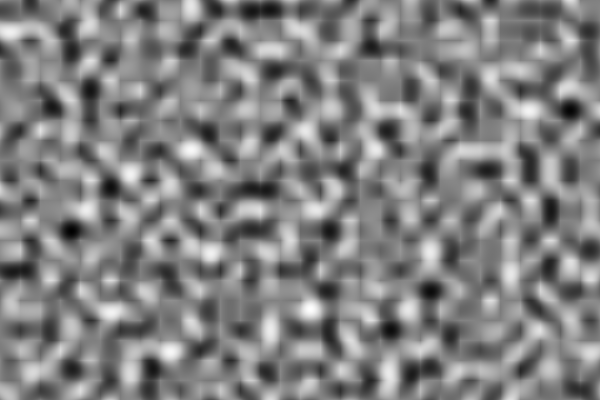
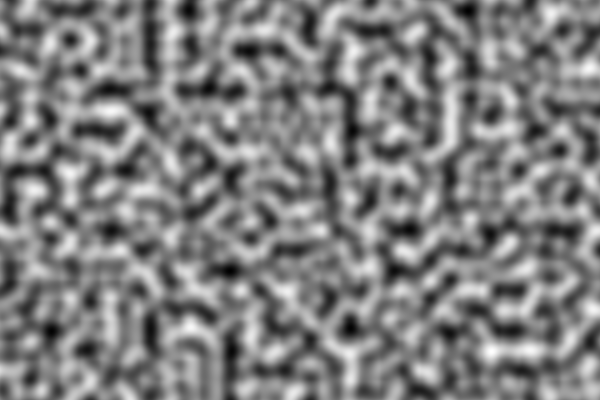
Introduced ease function for weighting.

diff --git a/perlin.py b/perlin.py
@@ -21,6 +21,9 @@ for i in range(gradients.shape[0]):
 def interpolate(x0, x1, w):
     return x0 + w * (x1 - x0)
 
+def ease_function(t):
+    return 3 * t**2 - 2 * t**3
+
 def perlin(x, y):
     x = x / cell_width
     y = y / cell_height
@@ -34,10 +37,12 @@ def perlin(x, y):
     u = np.dot((x - x0, y - y1), gradients[x0, y1])
     v = np.dot((x - x1, y - y1), gradients[x1, y1])
 
-    a = interpolate(s, t, x - x0)
-    b = interpolate(u, v, x - x0)
+    w = ease_function(x - x0)
+    a = interpolate(s, t, w)
+    b = interpolate(u, v, w)
 
-    value = interpolate(a, b, y - y0)
+    w = ease_function(y - y0)
+    value = interpolate(a, b, w)
     return value
 
 width, height = n_horz_cells * cell_width, n_vert_cells * cell_height
